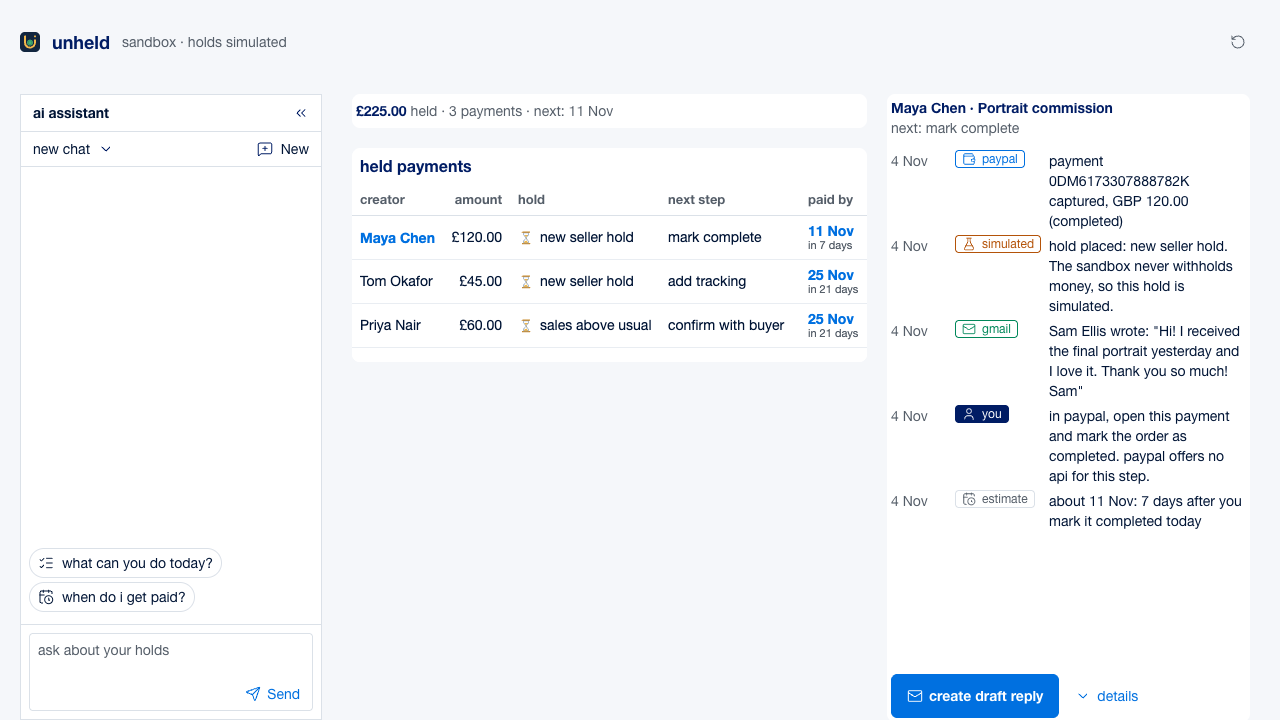
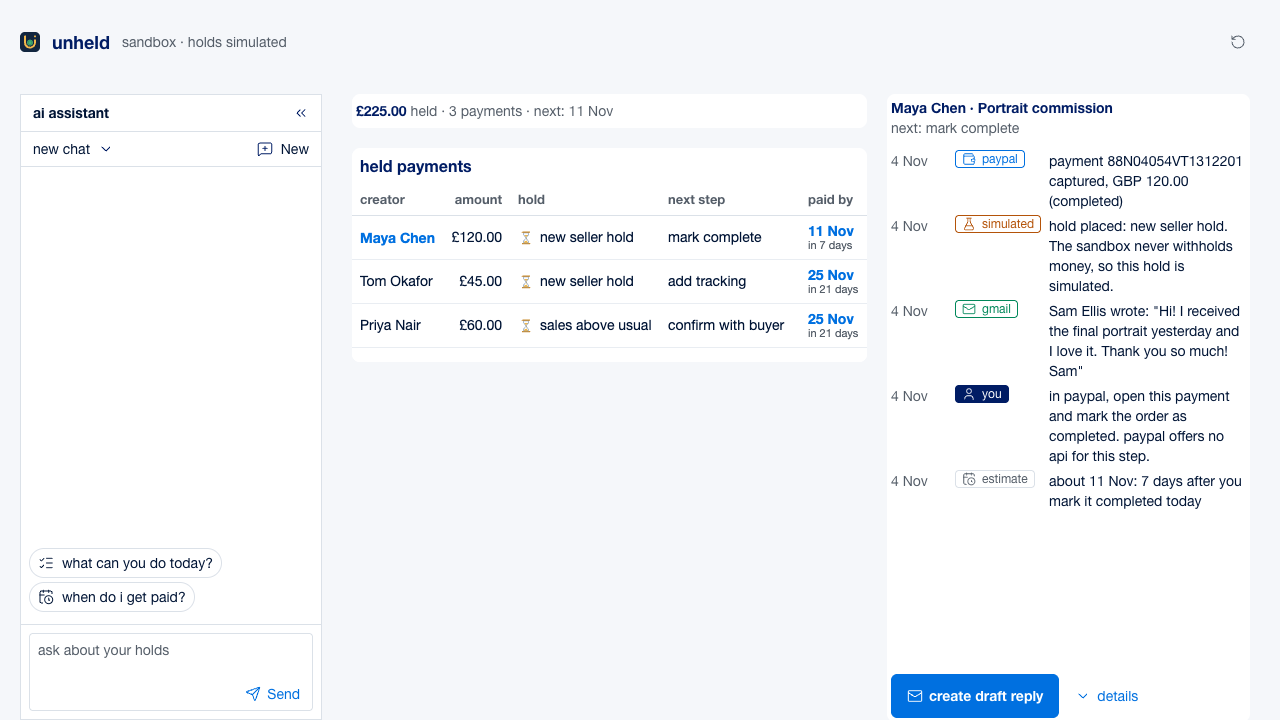
Reset the demo on sign-in; shorter assistant answers

diff --git a/app/studio/ai.ts b/app/studio/ai.ts
@@ -17,7 +17,8 @@ Call add_tracking or draft_buyer_reply only when the creator asks you to act (fo
 Release rules (PayPal help article help129): about ${RELEASE_RULES.afterDelivery} day after confirmed delivery, about ${RELEASE_RULES.afterCompleted} days after the order is marked completed, otherwise within ${RELEASE_RULES.longest} days of the payment.
 Write every date as its day and short month in English, year only if it is not 2026 (for example "10 Nov") — never the raw ISO date a tool returns.
 Be exact about sources: write each fact on its own line or bullet, starting that line with one inline code tag and nothing before it \u2014 never place a tag mid-sentence, and never repeat a tag on the same line. Use \`estimate\` for a release date, \`gmail\` for buyer mail, \`paypal\` for order or payment state, \`you\` for a step only the creator can take, \`simulated\` for the hold itself (for example "\`estimate\` about 8 Nov"). The holds are simulated because the PayPal sandbox never withholds money. Adding a tracker is not a release, and a release date is an estimate, not a PayPal promise.
-Keep replies short and in plain words. Use lowercase labels when you add widgets.`;
+Keep replies short and in plain words. Per payment give at most three tagged lines: the \`estimate\` date, the one fact it rests on, and the \`you\` step if there is one. List every evidence row only when the creator asks for the full evidence of one payment.
+Use lowercase labels when you add widgets.`;
 
 function unheldTools(api: AgStudioApi): AgAiTool[] {
   const holdIds = () => holdsStore.get()?.holds.map((h) => h.id) ?? [];

diff --git a/lib/demo-reset.ts b/lib/demo-reset.ts
@@ -80,6 +80,17 @@ export async function resetDemo(): Promise<void> {
   return startReset();
 }
 
+/**
+ * Reset on each correct access code (app/api/enter/route.ts), so a judge who signs in after another
+ * judge tracked Tom's parcel still starts fresh (simulated judge, 2026-11-04: the next run found Tom
+ * already tracked). Skipped within a minute of the last reset; never counts against the button's
+ * rate limit. Never throws.
+ */
+export async function resetOnSignIn(): Promise<void> {
+  if (state.inFlight || Date.now() - state.resetAt < MIN_MANUAL_INTERVAL_MS) return;
+  await startReset().catch((e) => console.error('demo sign-in reset failed:', (e as Error).message));
+}
+
 /** Automatic reset: the first load after a server start, and whenever the state goes stale. Never throws. */
 export async function ensureFreshDemo(): Promise<void> {
   if (state.orderIds && Date.now() - state.resetAt <= MAX_AGE_MS) return;

diff --git a/app/api/enter/route.ts b/app/api/enter/route.ts
@@ -1,3 +1,4 @@
+import { resetOnSignIn } from '@/lib/demo-reset';
 import { ACCESS_COOKIE, accessToken } from '@/proxy';
 
 // Relative redirects: behind a proxy (Render) or on 127.0.0.1, request.url's host is not the one
@@ -8,6 +9,7 @@ export async function POST(request: Request) {
   const ok = !code || form.get('code') === code;
   const headers = new Headers({ Location: ok ? '/' : '/enter?wrong=1' });
   if (ok && code) {
+    await resetOnSignIn();
     const secure = request.headers.get('x-forwarded-proto') === 'https' || request.url.startsWith('https:');
     headers.append(
       'Set-Cookie',
